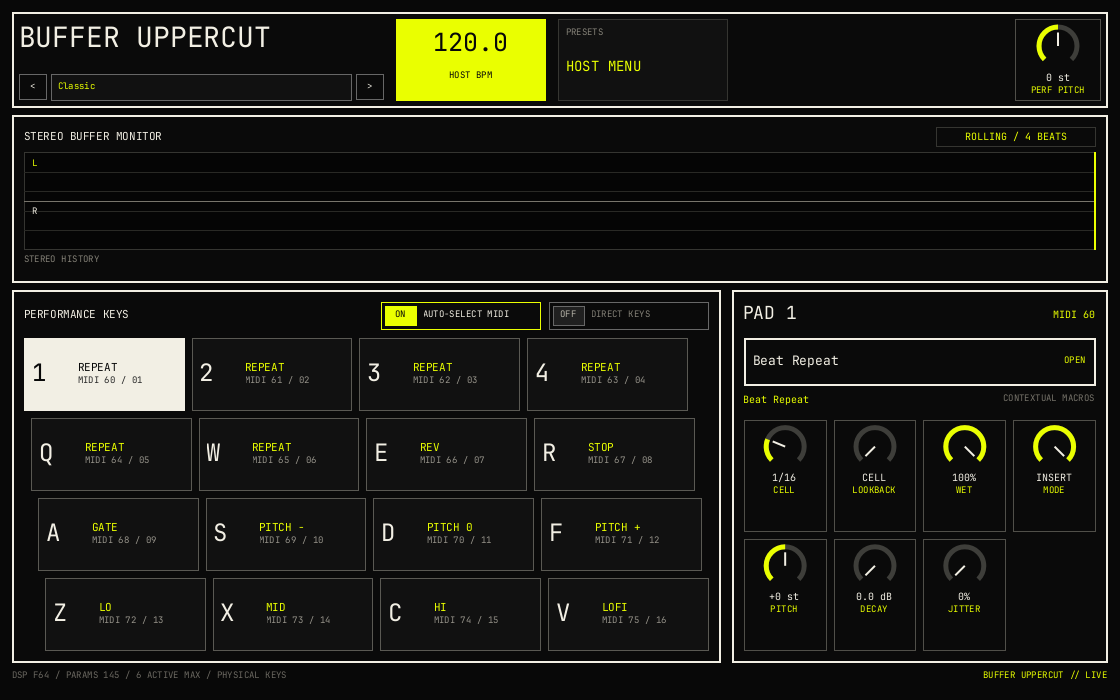
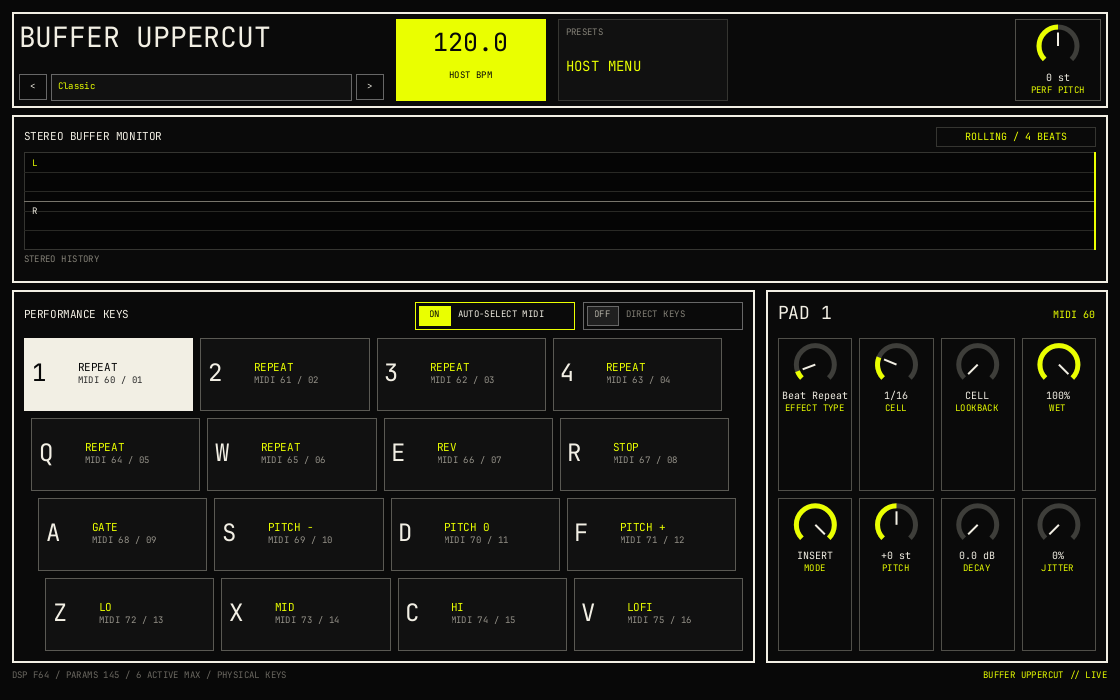
fix: restore effect type knob

diff --git a/src/editor.rs b/src/editor.rs
@@ -70,15 +70,10 @@ pub fn create(params: Arc<BufferUppercutParams>) -> Box<dyn Editor> {
         let macros = Rc::new(VecModel::from(
             (0..NUM_MACROS).map(empty_macro_view).collect::<Vec<_>>(),
         ));
-        let effect_options = Rc::new(VecModel::from(
-            (0..EFFECT_COUNT)
-                .map(|index| SharedString::from(effect_name(EffectType::from_index(index as i32))))
-                .collect::<Vec<_>>(),
-        ));
+        let active_effect_gesture = Rc::new(Cell::new(None));
 
         ui.set_pads(ModelRc::from(pads.clone()));
         ui.set_macros(ModelRc::from(macros.clone()));
-        ui.set_effect_options(ModelRc::from(effect_options));
         apply_editor_preview(&ui, editor_preview);
 
         {
@@ -148,10 +143,31 @@ pub fn create(params: Arc<BufferUppercutParams>) -> Box<dyn Editor> {
         {
             let state = state.clone();
             let selected_pad = selected_pad.clone();
-            ui.on_effect_changed(move |index| {
-                let effect = index.clamp(0, EFFECT_COUNT as i32 - 1) as usize;
-                let normalized = truce::core::cast::discrete_norm(effect, EFFECT_COUNT);
-                state.automate(pad_type_id(selected_pad.get()), normalized);
+            let active_effect_gesture = active_effect_gesture.clone();
+            ui.on_effect_edit_began(move || {
+                let id = pad_type_id(selected_pad.get());
+                active_effect_gesture.set(Some(id));
+                state.begin_edit(id);
+            });
+        }
+        {
+            let state = state.clone();
+            let active_effect_gesture = active_effect_gesture.clone();
+            ui.on_effect_value_changed(move |value| {
+                let Some(id) = active_effect_gesture.get() else {
+                    return;
+                };
+                let effect = effect_index_from_normalized(value);
+                state.set_param(id, truce::core::cast::discrete_norm(effect, EFFECT_COUNT));
+            });
+        }
+        {
+            let state = state.clone();
+            let active_effect_gesture = active_effect_gesture.clone();
+            ui.on_effect_edit_ended(move || {
+                if let Some(id) = active_effect_gesture.take() {
+                    state.end_edit(id);
+                }
             });
         }
         {
@@ -261,7 +277,9 @@ pub fn create(params: Arc<BufferUppercutParams>) -> Box<dyn Editor> {
             }
 
             let effect = selected_effect(state, selected);
-            ui.set_effect_index(effect as i32);
+            ui.set_effect_value(
+                truce::core::cast::discrete_norm(effect as usize, EFFECT_COUNT) as f32,
+            );
             ui.set_effect_name(SharedString::from(effect_name(effect)));
             ui.set_selected_pad_note(SharedString::from(format!("MIDI {}", selected + 60)));
             for control in 0..NUM_MACROS {
@@ -431,6 +449,10 @@ fn valid_macro_index(index: i32) -> Option<usize> {
     usize::try_from(index)
         .ok()
         .filter(|control| *control < NUM_MACROS)
+}
+
+fn effect_index_from_normalized(value: f32) -> usize {
+    (value.clamp(0.0, 1.0) * (EFFECT_COUNT - 1) as f32).round() as usize
 }
 
 fn empty_pad_view(pad: usize) -> PadView {
@@ -606,6 +628,16 @@ mod tests {
             "/Applications/REAPER.app/Contents/MacOS/REAPER"
         ))));
         assert!(!standalone_direct_keys_default(None));
+    }
+
+    #[test]
+    fn effect_knob_quantizes_to_all_discrete_effect_types() {
+        for effect in 0..EFFECT_COUNT {
+            let normalized = truce::core::cast::discrete_norm(effect, EFFECT_COUNT) as f32;
+            assert_eq!(effect_index_from_normalized(normalized), effect);
+        }
+        assert_eq!(effect_index_from_normalized(-1.0), 0);
+        assert_eq!(effect_index_from_normalized(2.0), EFFECT_COUNT - 1);
     }
 
     #[test]
